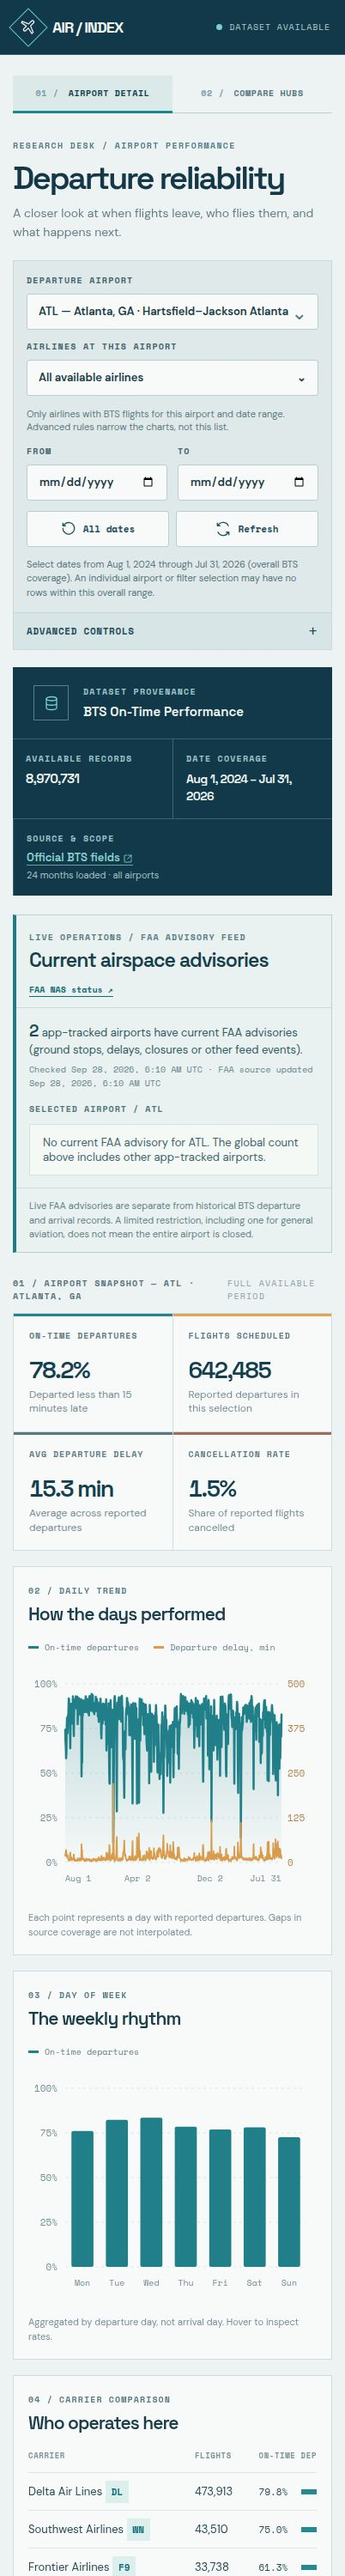
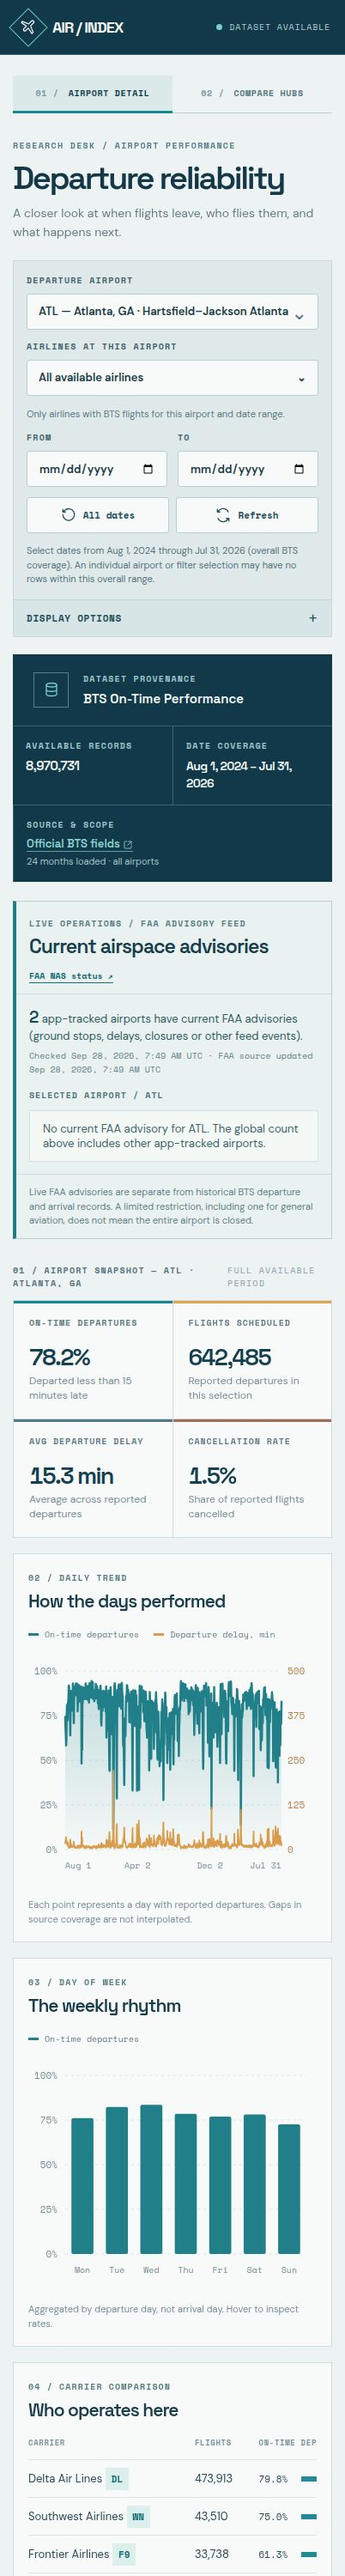
Update README and airport screenshots
Replit-Commit-Author: Agent

diff --git a/README.md b/README.md
@@ -18,11 +18,11 @@ Each dashboard view is shown twice: **desktop** shows the wide layout, and **mob
 
 **Desktop view (1365 px wide)**
 
-<a href="docs/screenshots/airport-detail.jpg"><img src="docs/screenshots/airport-detail.jpg" alt="Desktop Airport detail view with filters, BTS and FAA panels, snapshot metrics, trend charts, carrier table, and arrival outcomes." width="760"></a>
+<a href="docs/screenshots/airport-detail.jpg"><img src="docs/screenshots/airport-detail.jpg" alt="Desktop Airport detail view with airport, airline, and date filters, Display options, BTS and FAA panels, snapshot metrics, trend charts, carrier table, and arrival outcomes." width="760"></a>
 
 **Mobile view (402 px wide)**
 
-<a href="docs/screenshots/airport-detail-mobile.jpg"><img src="docs/screenshots/airport-detail-mobile.jpg" alt="Mobile Airport detail view with stacked filters, BTS and FAA panels, snapshot metrics, and daily and weekday charts." width="320"></a>
+<a href="docs/screenshots/airport-detail-mobile.jpg"><img src="docs/screenshots/airport-detail-mobile.jpg" alt="Mobile Airport detail view with stacked airport, airline, and date filters, Display options, BTS and FAA panels, snapshot metrics, and daily and weekday charts." width="320"></a>
 
 ### Compare hubs
 
